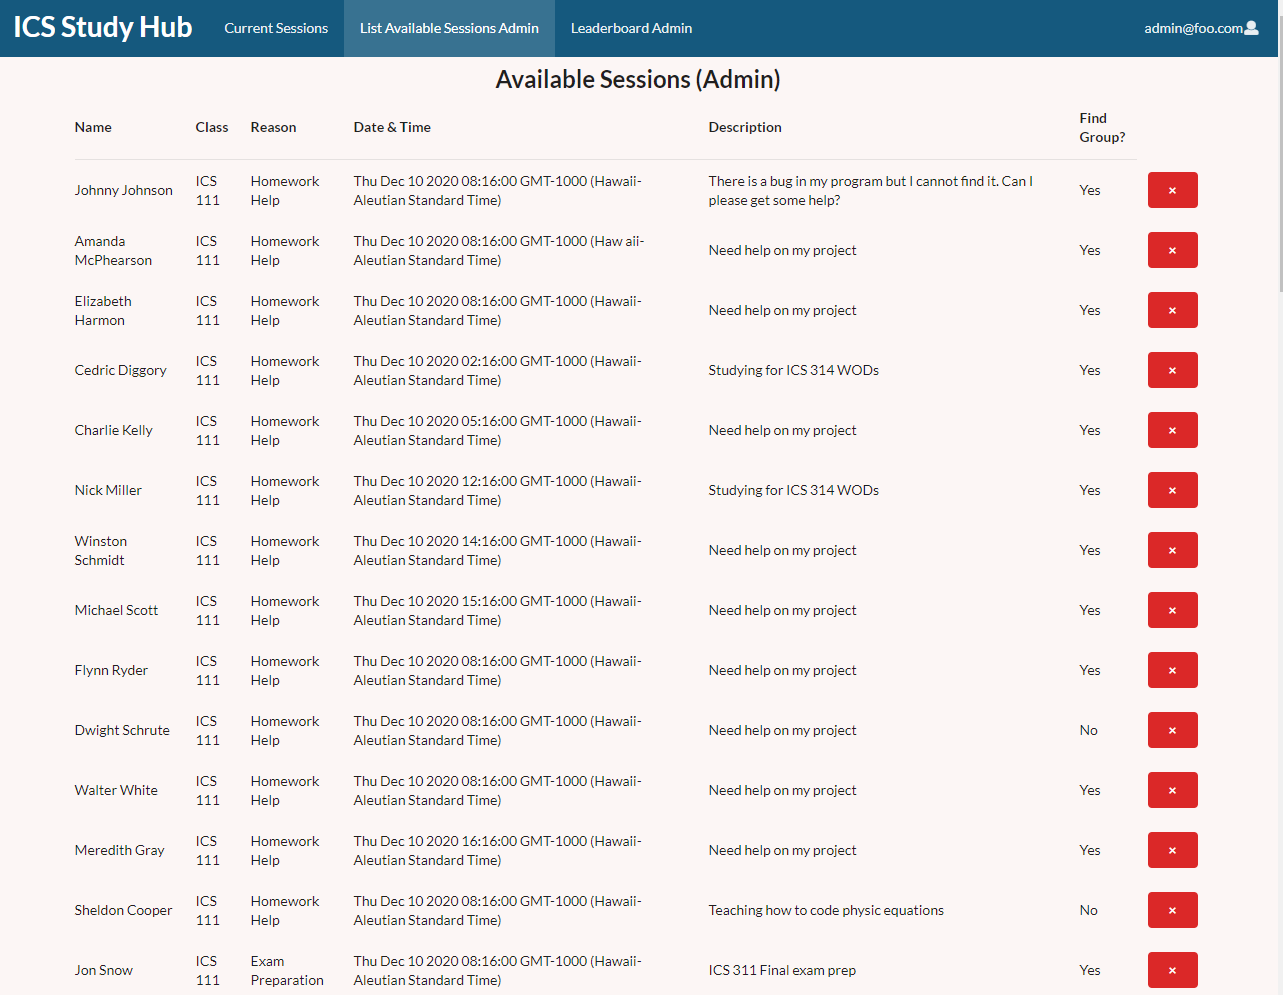
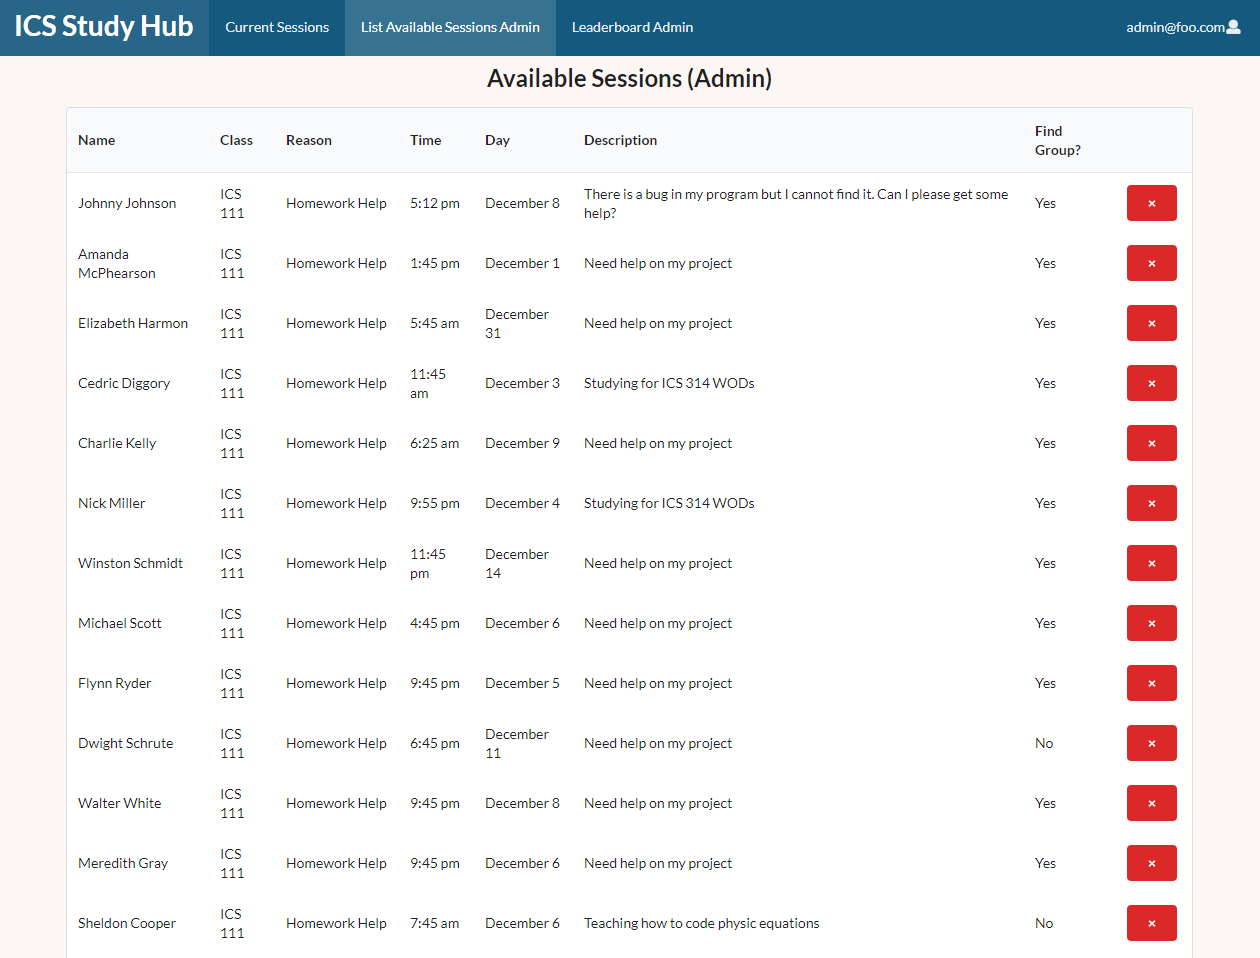
added more pictures

diff --git a/index.md b/index.md
@@ -34,7 +34,7 @@ The landing page is presented to users when they visit the top-level URL to the 
 
 ### [Calendar Page:](http://icsstudyhub.xyz/#/usercalendar)
 Clicking on the Current Sessions tab will bring the user to a page with a calendar where users can see all the current sessions that are available and create new ones within the page.
-![calendar page](images/M2/calendar.PNG)
+![calendar page](images/M3/Calendar.PNG)
 
 ### [Create Study Session:](http://icsstudyhub.xyz/#/create)
 In the Create tab the user will be brought to a page where they can fill out a form and specify the details of their new study sessions to everyone.
@@ -46,7 +46,7 @@ The List Available Sessions shows all the current study sessions that are availa
 
 ### [Game Mechanics Page:](http://icsstudyhub.xyz/#/leaderboard)
 Having a Leaderboard keeps the students motivated to study and in return they can earn rewards if they study hard enough.
-![game mechanics page mockup](images/M2/leaderboard.PNG)
+![game mechanics page mockup](images/M3/list-leaderboard.PNG)
 
 ### [Admin List Session:](http://icsstudyhub.xyz/#/admin)
 The Admin List Session is the same as what the user will see except they have the ability to remove posts after the time has passed or the user wants the session to be deleted.
@@ -54,7 +54,7 @@ The Admin List Session is the same as what the user will see except they have th
 
 ### [Admin Leaderboard:](http://icsstudyhub.xyz/#/leaderboardadmin)
 The Leaderboard also the same where an admin can see the current leaderboard but if there was a student not following the rules then the admin is able to remove them from the leaderboard.
-![game mechanics page mockup](images/M2/leaderboardsession.PNG)
+![game mechanics page mockup](images/M3/list-leaderboard-admin.PNG)
 
 
 ## Developer Guide
